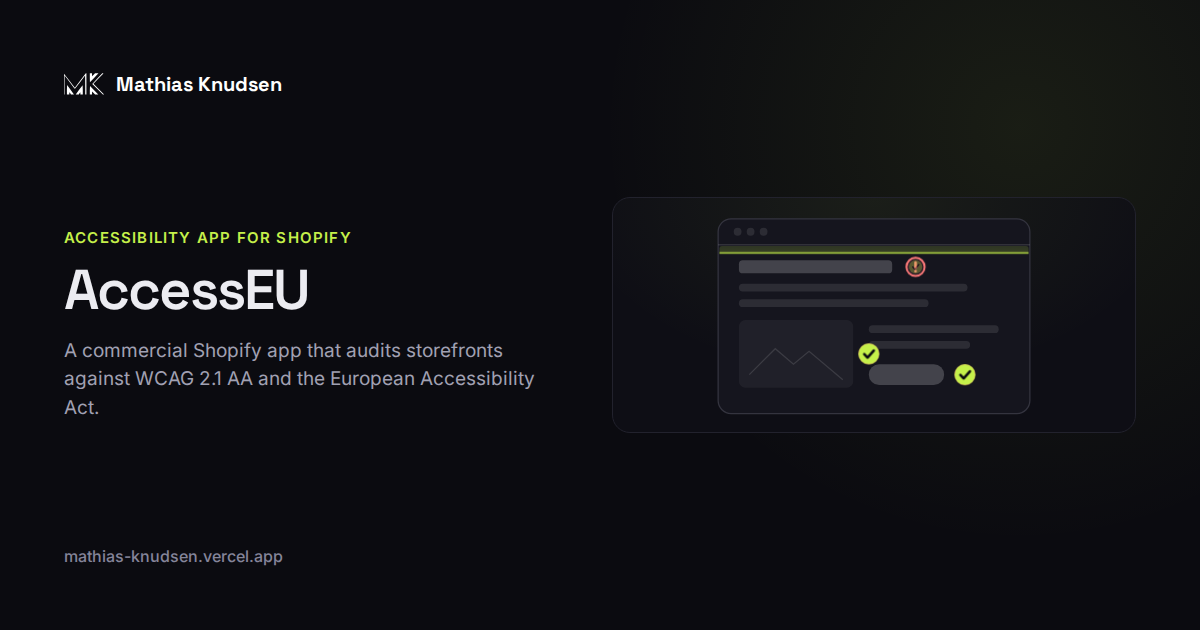
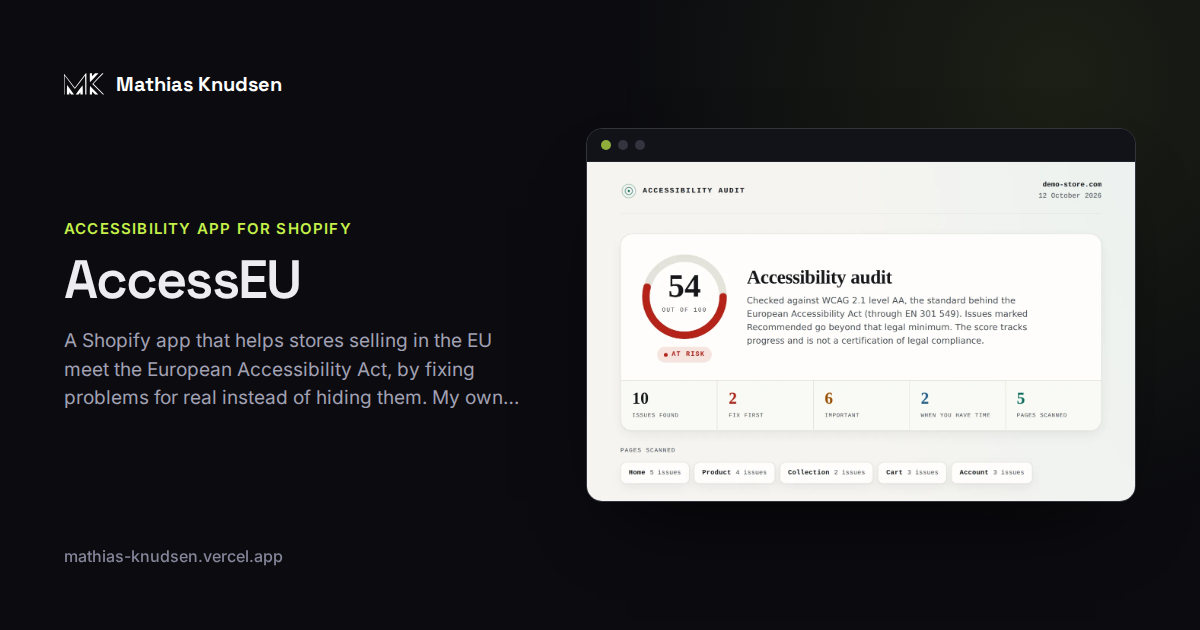
Link previews for every page, structured data and an RSS feed
- Every page shares with its own preview image: each project, the lab
  (six live demos), the blog and each post; the home preview now shows
  real project screens
- Structured data: who the site is about on every page, the blog and
  each post as Blog and BlogPosting, with dates and images
- An RSS feed of the blog at /blog/rss.xml, announced on every page
- og:type website for the home, the lab and the blog, article for
  projects and posts; posts carry their publication date
- Basic security headers on every response (nosniff, referrer policy,
  no camera, microphone or location)

Claude-Session: https://claude.ai/code/session_01Af4ypNwssAxvDeozZygU7V

Changed region(s): [[0.4625, 0.2111, 0.9558, 0.8143], [0.0308, 0.3317, 0.4317, 0.6635], [0.0617, 0.8746, 0.2467, 0.9048]]

diff --git a/index.html b/index.html
@@ -26,6 +26,33 @@
     <meta property="og:locale" content="en_GB" />
     <meta property="og:locale:alternate" content="fr_FR" />
     <meta name="twitter:card" content="summary_large_image" />
+    <link rel="alternate" type="application/rss+xml" title="Blog | Mathias Knudsen" href="/blog/rss.xml" />
+
+    <!-- Who this site is about, for search engines -->
+    <script type="application/ld+json">
+      {
+        "@context": "https://schema.org",
+        "@graph": [
+          {
+            "@type": "WebSite",
+            "@id": "https://mathias-knudsen.vercel.app/#website",
+            "url": "https://mathias-knudsen.vercel.app/",
+            "name": "Mathias Knudsen",
+            "inLanguage": ["en", "fr"],
+            "publisher": { "@id": "https://mathias-knudsen.vercel.app/#person" }
+          },
+          {
+            "@type": "Person",
+            "@id": "https://mathias-knudsen.vercel.app/#person",
+            "name": "Mathias Knudsen",
+            "url": "https://mathias-knudsen.vercel.app/",
+            "jobTitle": "Fullstack and Shopify developer, UI/UX designer",
+            "address": { "@type": "PostalAddress", "addressLocality": "Toulouse", "addressCountry": "FR" },
+            "knowsAbout": ["Shopify", "React", "Django", "UI/UX design", "Web accessibility", "Interface animation"]
+          }
+        ]
+      }
+    </script>
   </head>
   <body>
     <div id="root"></div>
